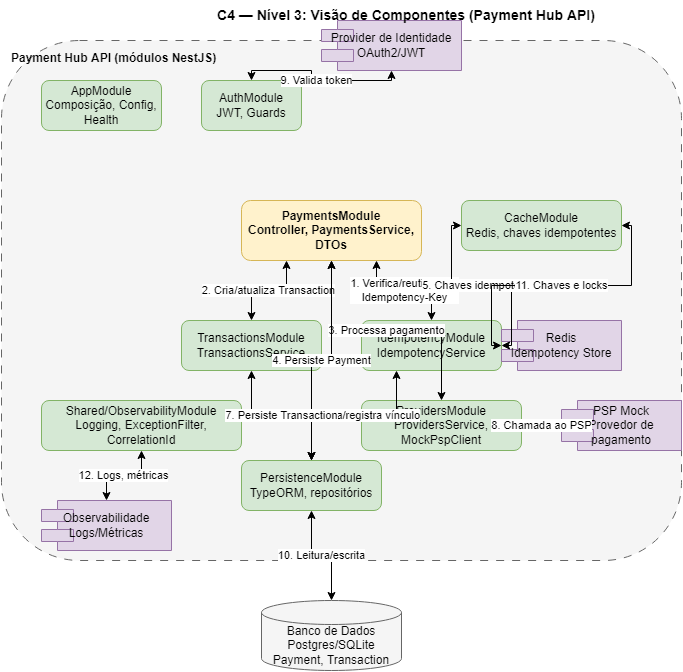
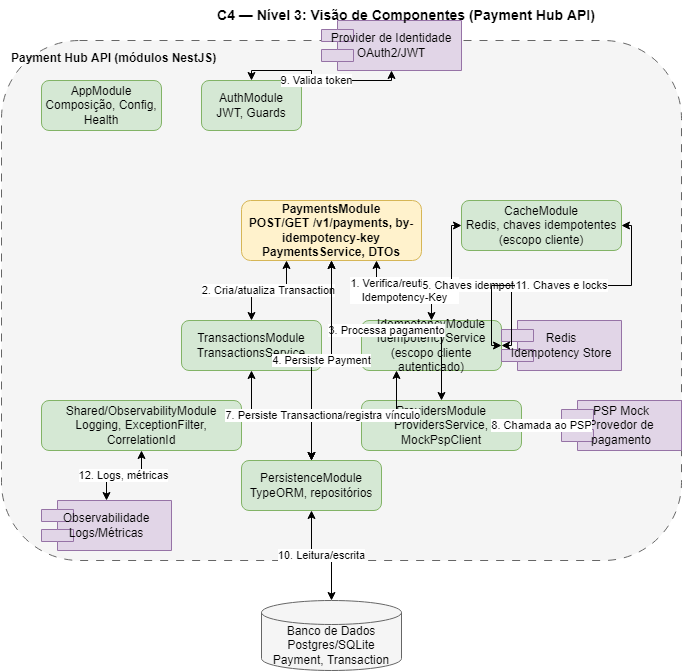
docs(review,c4,readme): prepare for guided implementation and AI agents source of truth

Changed region(s): [[0.369, 0.2812, 0.6149, 0.4062], [0.6764, 0.3125, 0.8917, 0.375], [0.5534, 0.4688, 0.7072, 0.5625]]

diff --git a/docs/INTEGRATION-REVIEW.md b/docs/INTEGRATION-REVIEW.md
@@ -2,13 +2,15 @@
 
 Revisão de consistência entre `requirements.md`, C4 (`context.md`, `container.md`, `components.md`), `openapi.md`, `quality.md`, `roadmap.md` e `data-state.md`. Este documento é mantido como revisão viva: pendências resolvidas são movidas para a seção 1.2; apenas itens em aberto permanecem em 1.1.
 
+**Fonte de verdade para agentes de IA:** Os documentos em `docs/` (requirements.md, api/openapi.md, data-state.md, c4/*.md, quality.md, roadmap.md, INTEGRATION-REVIEW.md) constituem a **fonte de verdade única** para implementação do Payment Hub API. Agentos devem seguir o plano de implementação guiada (§2), as referências cruzadas entre documentos e os contratos/estados aqui definidos. A implementação guiada pode ser iniciada; não há pendências críticas bloqueantes.
+
 ---
 
 ## 1. Estado da revisão
 
-### 1.1. Pendências ainda abertas
+### 1.1. Pendências ainda abertas (nenhuma — pronto para implementação guiada)
 
-Nenhuma pendência crítica em aberto após a harmonização final. Os itens abaixo foram objeto de ajuste nesta etapa e estão refletidos nos documentos:
+Nenhuma pendência crítica em aberto após a harmonização final. Os itens abaixo foram objeto de ajuste e **já estão refletidos** nos documentos; a implementação guiada (§2) pode ser iniciada:
 
 - **Alinhamento de versionamento de API**: Prefixo `/v1` adotado em [openapi.md](api/openapi.md) para todos os endpoints de pagamento e health; quality.md e C4 referenciam rotas versionadas.
 - **Harmonização de nomes de serviços**: Padronizado em toda a documentação: `IdempotencyService` (não ReplayService), `ProvidersService` como contrato principal (não ProviderGatewayService); quality.md § 3.4 e INTEGRATION-REVIEW referenciam explicitamente.
@@ -208,6 +210,8 @@ feat(auth): add JWT strategy and validation (iss, aud, exp, iat)
 feat(auth): extract identity and client scope from token into request context
 
 docs: add INTEGRATION-REVIEW with consistency notes and implementation plan
+
+docs(review): declare docs as source of truth for AI agents and mark §1.1 ready for guided implementation
 ```
 
 ---

diff --git a/docs/dev-commit-logs/payment-flows.md b/docs/dev-commit-logs/payment-flows.md
@@ -69,4 +69,20 @@ Ordem recomendada de commits (Conventional Commits) após as alterações de har
 
 ---
 
+## Preparação para implementação guiada (Implementation-Ready)
+
+13. **docs(review,c4,readme): prepare for guided implementation and AI agents source of truth**
+    - INTEGRATION-REVIEW.md: parágrafo **Fonte de verdade para agentes de IA** — docs em `docs/` como fonte única para implementação; agentes devem seguir §2 (plano guiado) e referências cruzadas; sem pendências críticas bloqueantes.
+    - INTEGRATION-REVIEW §1.1: título ajustado para "Pendências ainda abertas (nenhuma — pronto para implementação guiada)"; texto reforça que itens listados já estão refletidos e que a implementação pode ser iniciada.
+    - context.md: rotas em §4 explicitadas com prefixo `/v1` (POST/GET /v1/payments, GET /v1/payments/by-idempotency-key/{idempotencyKey}).
+    - components.md: rotas do PaymentsController com prefixo `/v1` em M3.
+    - README Implementation Plan: etapa 5 (Controllers) com rotas /v1; etapa 9 (Auth JWT) com "escopo do cliente autenticado" em vez de "tenant".
+
+14. **docs(c4-diagrams): align draw.io and PNG with C4 docs (/v1 routes, client scope)**
+    - context.drawio: rótulo Cliente→Hub com POST/GET /v1/payments, GET /v1/payments/by-idempotency-key/:key; Cache com "escopo do cliente autenticado". context.png regenerado.
+    - container.drawio: edge Cliente→API com GET /v1/payments/by-idempotency-key/:key e GET /v1/health; Cache com "escopo do cliente autenticado". container.png regenerado.
+    - components.drawio: PaymentsModule com "POST/GET /v1/payments, by-idempotency-key"; IdempotencyModule com "escopo cliente autenticado"; CacheModule com "escopo cliente". components.png regenerado.
+
+---
+
 *Gerado pelo agente Documentation Harmonizer e Documentation Final Harmonizer. Não implementa código; apenas documentação.*

diff --git a/README.md b/README.md
@@ -281,7 +281,7 @@ O plano de implementação segue a ordem de fixação NestJS definida em [docs/r
 
 4. **Services** — PaymentsService, IdempotencyService, TransactionsService, ProvidersService; orquestração e regras de negócio. *Ref.: requirements.md, components.md, data-state.md, quality.md.*
 
-5. **Controllers** — PaymentsController: POST /payments, GET /payments/:paymentId, GET /payments/by-idempotency-key/:idempotencyKey; códigos HTTP conforme OpenAPI. *Ref.: openapi.md, requirements.md, context.md, container.md, quality.md.*
+5. **Controllers** — PaymentsController: POST /v1/payments, GET /v1/payments/:paymentId, GET /v1/payments/by-idempotency-key/:idempotencyKey; códigos HTTP conforme OpenAPI. *Ref.: openapi.md, requirements.md, context.md, container.md, quality.md.*
 
 6. **Exception Filters** — Filtro global; formato { code, message, details?, correlationId }; mapeamento de exceções para status e códigos. *Ref.: requirements.md, openapi.md, quality.md.*
 
@@ -289,6 +289,6 @@ O plano de implementação segue a ordem de fixação NestJS definida em [docs/r
 
 8. **Guards** — Proteção de rotas (JWT; opcional API Key); roles/metadata por rota. *Ref.: requirements.md, quality.md, components.md.*
 
-9. **Auth JWT** — Validação de token (iss, aud, exp, iat); contexto de identidade e tenant; rotação de chaves. *Ref.: requirements.md, quality.md, context.md.*
+9. **Auth JWT** — Validação de token (iss, aud, exp, iat); contexto de identidade e escopo do cliente autenticado; rotação de chaves. *Ref.: requirements.md, quality.md, context.md.*
 
 Cada etapa deve ser implementada e testada antes de avançar; os documentos em `docs/` são a fonte de verdade para contratos, estados e convenções.

diff --git a/docs/c4/context.md b/docs/c4/context.md
@@ -68,15 +68,15 @@
 ### 4. Relações de alto nível (Contexto)
 
 - **Cliente da API → Payment Hub API**
-  - `HTTP POST /payments` (criação de pagamento) com:
+  - `HTTP POST /v1/payments` (criação de pagamento) com:
     - `Authorization` (obrigatório).
     - `Idempotency-Key` (obrigatório na criação).
     - `X-Correlation-Id` (opcional; gerado pelo hub se ausente).
     - Body com `payer`, `payee` (vocabulário da API; internamente normalizados para `customerId`/`merchantId`), `amount`, `currency`, `paymentMethod`, `externalReference`, etc.
-  - `HTTP GET /payments/{paymentId}` (consulta de pagamento) com:
+  - `HTTP GET /v1/payments/{paymentId}` (consulta de pagamento) com:
     - `Authorization`.
     - `X-Correlation-Id` (opcional).
-  - `HTTP GET /payments/by-idempotency-key/{idempotencyKey}` (consulta por chave de idempotência) com:
+  - `HTTP GET /v1/payments/by-idempotency-key/{idempotencyKey}` (consulta por chave de idempotência) com:
     - `Authorization`.
     - `X-Correlation-Id` (opcional).
   - Recebe como resposta:

diff --git a/docs/c4/components.md b/docs/c4/components.md
@@ -27,9 +27,9 @@ Abaixo, os principais componentes internos da `Payment Hub API`, representados c
   - Módulo de **orquestração de pagamentos**.
   - Componentes:
     - `PaymentsController` — endpoints HTTP:
-      - `POST /payments` (criar).
-      - `GET /payments/{paymentId}` (consultar).
-      - `GET /payments/by-idempotency-key/{idempotencyKey}` (consultar por chave de idempotência).
+      - `POST /v1/payments` (criar).
+      - `GET /v1/payments/{paymentId}` (consultar).
+      - `GET /v1/payments/by-idempotency-key/{idempotencyKey}` (consultar por chave de idempotência).
     - `PaymentsService` — orquestra lógica de alto nível de criação/consulta.
     - DTOs, pipes de validação, mapeadores.
   - Responsabilidades:
